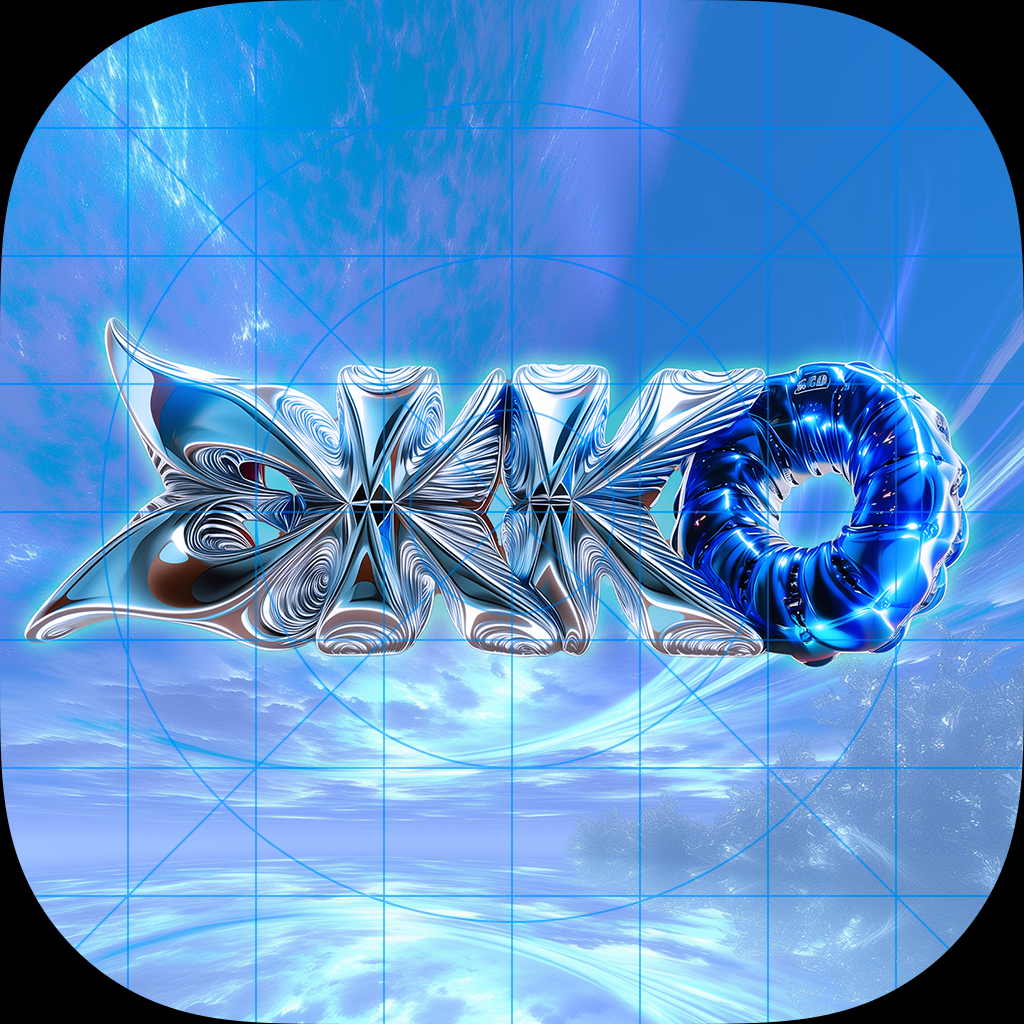
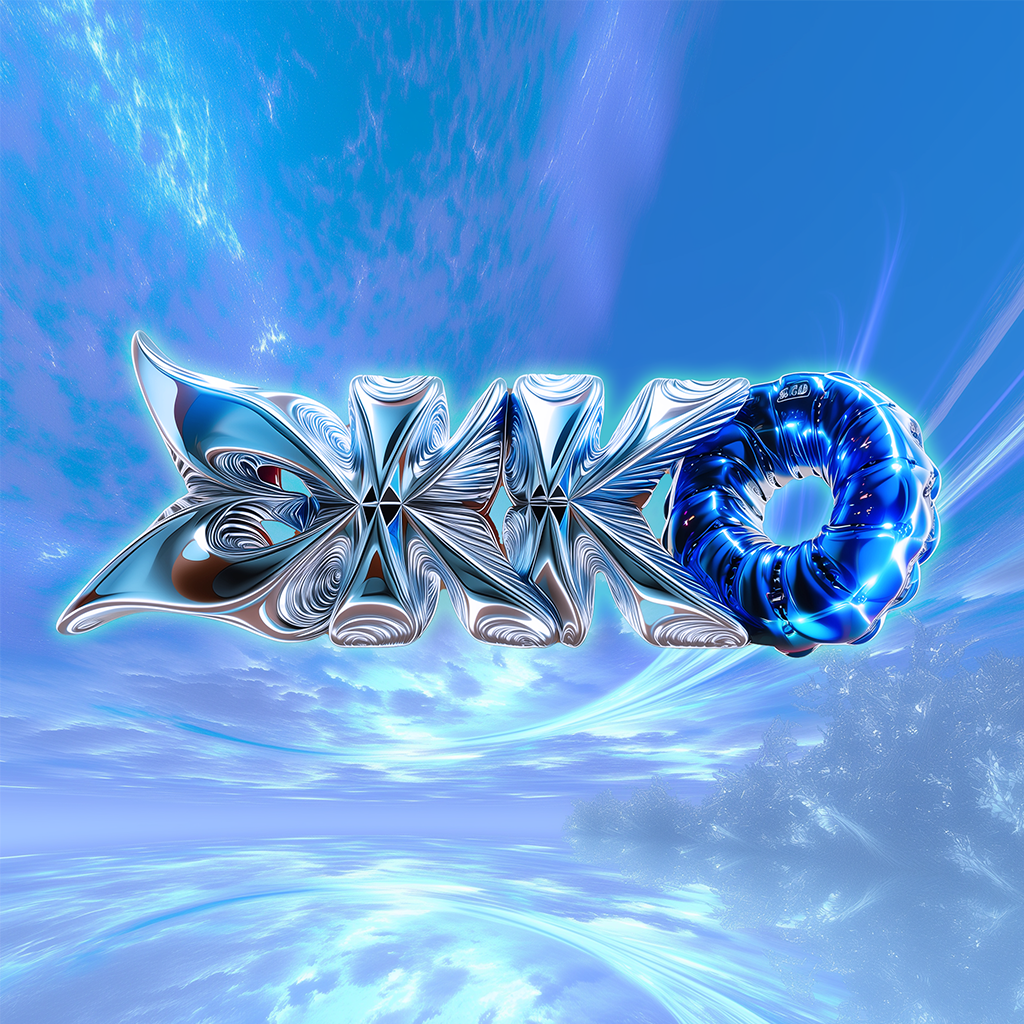
Connect: landing page and sky.png updates
Made-with: Cursor

diff --git a/apps/connect/app/page.tsx b/apps/connect/app/page.tsx
@@ -1,6 +1,6 @@
 import Link from "next/link";
 import Image from "next/image";
-import { Heart, Users, Sparkles, ArrowRight, Palette, Music, Camera, Pen } from "lucide-react";
+import { Heart, Users, Sparkles, ArrowRight } from "lucide-react";
 
 const steps = [
   {
@@ -20,28 +20,22 @@ const steps = [
   },
 ];
 
-const disciplines = [
-  { icon: Camera, label: "Photography" },
-  { icon: Palette, label: "Design" },
-  { icon: Music, label: "Music" },
-  { icon: Pen, label: "Writing" },
-];
-
 export default function LandingPage() {
   return (
     <div className="min-h-screen bg-background text-foreground">
       <div className="mx-auto max-w-lg">
-        {/* Hero with sky background */}
+        {/* Hero with blurred sky background */}
         <section className="relative px-4 pt-8 pb-8 text-center overflow-hidden">
           <div className="absolute inset-0">
             <Image
               src="/sky.png"
               alt=""
               fill
-              className="object-cover"
+              className="object-cover blur-md scale-110"
               priority
             />
-            <div className="absolute inset-0 bg-gradient-to-b from-background/20 via-transparent to-background" />
+            <div className="absolute inset-0 bg-black/20" />
+            <div className="absolute inset-0 bg-gradient-to-b from-transparent via-transparent to-background" />
           </div>
 
           <div className="relative z-10">
@@ -50,13 +44,13 @@ export default function LandingPage() {
               For Creatives, By Creatives
             </div>
 
-            <h2 className="text-3xl font-bold font-heading leading-tight mb-3" style={{ textShadow: "0 0 12px rgba(255,255,255,0.9), 0 0 24px rgba(255,255,255,0.6), 0 2px 4px rgba(0,0,0,0.15)" }}>
+            <h2 className="text-3xl font-bold font-heading leading-tight mb-3 text-white" style={{ textShadow: "0 2px 8px rgba(0,0,0,0.4)" }}>
               Find Your
               <br />
-              <span className="text-primary" style={{ textShadow: "0 0 12px rgba(255,255,255,0.9), 0 0 24px rgba(255,255,255,0.6), 0 2px 4px rgba(0,0,0,0.15)" }}>Creative Match</span>
+              <span className="text-primary" style={{ textShadow: "0 0 20px rgba(255,255,255,0.6), 0 2px 8px rgba(0,0,0,0.3)" }}>Creative Match</span>
             </h2>
 
-            <p className="text-sm leading-relaxed mb-6 max-w-xs mx-auto text-white" style={{ textShadow: "0 0 10px rgba(0,0,0,0.4), 0 2px 4px rgba(0,0,0,0.3)" }}>
+            <p className="text-sm leading-relaxed mb-6 max-w-xs mx-auto text-white/90" style={{ textShadow: "0 1px 6px rgba(0,0,0,0.5)" }}>
               Discover collaborators, clients, and creatives who share your
               passion. Swipe, match, and create together.
             </p>
@@ -71,7 +65,7 @@ export default function LandingPage() {
               </Link>
               <Link
                 href="/login"
-                className="inline-flex items-center justify-center h-11 rounded-xl btn-liquid-glass font-medium text-sm"
+                className="inline-flex items-center justify-center h-11 rounded-xl btn-liquid-glass font-medium text-sm text-white"
               >
                 I already have an account
               </Link>
@@ -79,25 +73,8 @@ export default function LandingPage() {
           </div>
         </section>
 
-        {/* Disciplines */}
-        <section className="px-4 pb-6">
-          <div className="flex items-center justify-center gap-2">
-            {disciplines.map((d) => (
-              <div
-                key={d.label}
-                className="glass-card flex flex-col items-center gap-1 px-3 py-2.5 flex-1"
-              >
-                <d.icon className="h-5 w-5 text-primary" />
-                <span className="text-[10px] font-medium text-muted-foreground">
-                  {d.label}
-                </span>
-              </div>
-            ))}
-          </div>
-        </section>
-
         {/* How It Works */}
-        <section className="px-4 pb-8">
+        <section className="px-4 py-8">
           <h3 className="text-base font-bold font-heading text-center mb-4">
             How It Works
           </h3>
@@ -121,55 +98,6 @@ export default function LandingPage() {
               </div>
             ))}
           </div>
-        </section>
-
-        {/* Features */}
-        <section className="px-4 pb-8">
-          <div className="glass-card p-5 text-center">
-            <h3 className="text-base font-bold font-heading mb-3">
-              Why EKKO Connect?
-            </h3>
-            <div className="grid grid-cols-2 gap-3 text-left">
-              <div>
-                <p className="text-sm font-semibold mb-0.5">Rich Profiles</p>
-                <p className="text-xs text-muted-foreground">
-                  Photos, video, audio & 3D
-                </p>
-              </div>
-              <div>
-                <p className="text-sm font-semibold mb-0.5">Smart Matching</p>
-                <p className="text-xs text-muted-foreground">
-                  Filtered by discipline & goals
-                </p>
-              </div>
-              <div>
-                <p className="text-sm font-semibold mb-0.5">Real Conversations</p>
-                <p className="text-xs text-muted-foreground">
-                  Chat with your matches
-                </p>
-              </div>
-              <div>
-                <p className="text-sm font-semibold mb-0.5">Built for Creatives</p>
-                <p className="text-xs text-muted-foreground">
-                  Not dating — creating
-                </p>
-              </div>
-            </div>
-          </div>
-        </section>
-
-        {/* CTA */}
-        <section className="px-4 pb-8 text-center">
-          <p className="text-muted-foreground text-sm mb-3">
-            Ready to find your creative match?
-          </p>
-          <Link
-            href="/register"
-            className="inline-flex items-center justify-center gap-2 h-11 px-8 rounded-xl bg-primary text-primary-foreground font-semibold text-sm hover:opacity-90 transition-opacity shadow-lg"
-          >
-            Join EKKO Connect
-            <ArrowRight className="h-4 w-4" />
-          </Link>
         </section>
 
         {/* Footer */}
